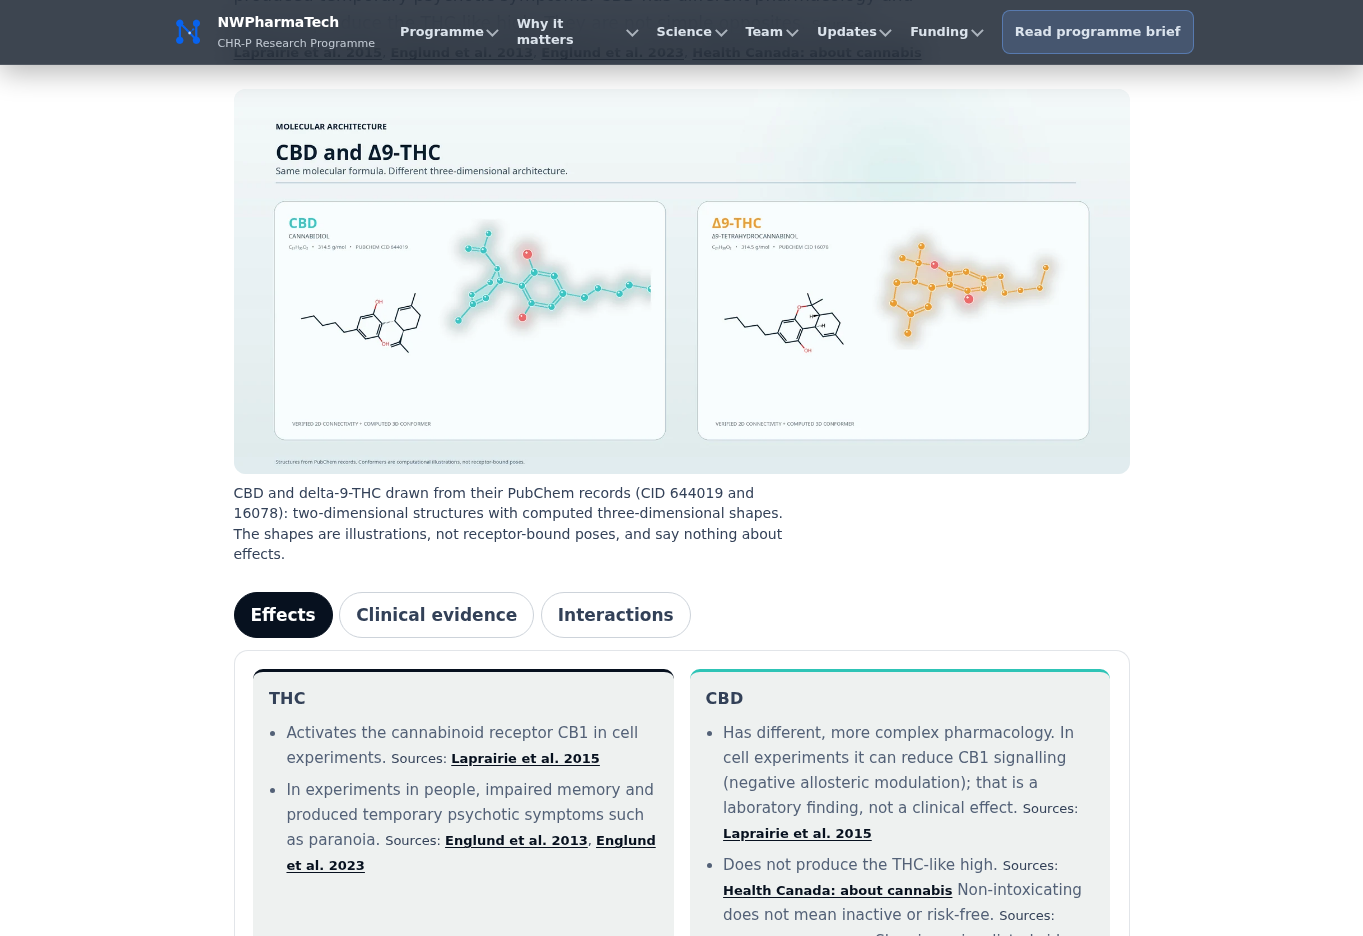
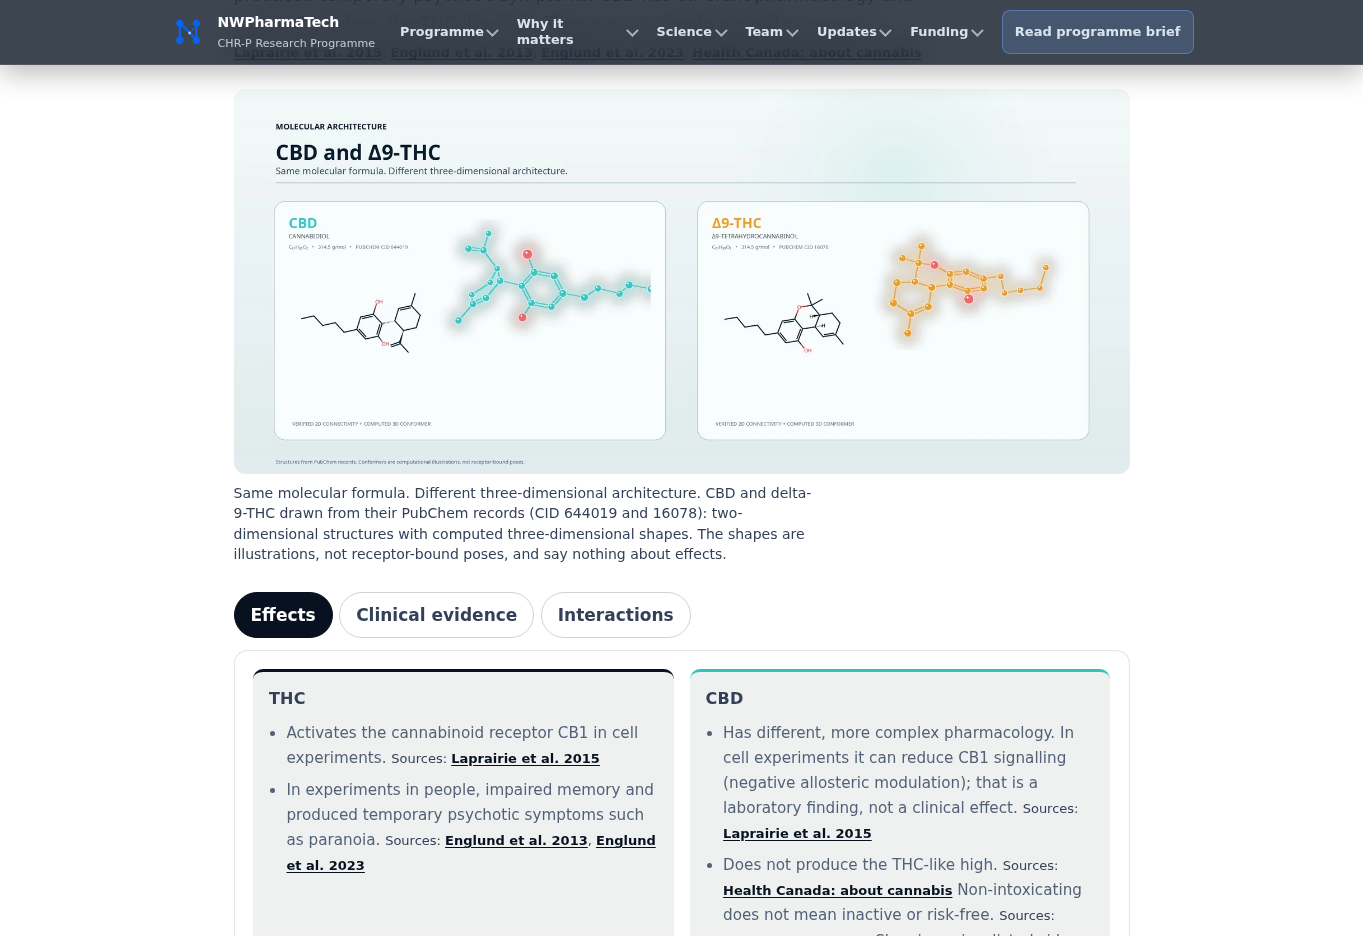
NWPT-049 follow-up: molecular caption carries the image's sentence
"Same molecular formula. Different three-dimensional architecture." now
opens the readable HTML caption on /science/cbd-thc (the embedded text is
small on phones). Names, PubChem IDs and the illustration limit kept;
set in build-science.py. test-visuals: 66 checks pass.

Claude-Session: https://claude.ai/code/session_01TYdFtUNnf73gKgrVG8b6gR

Changed region(s): [[0.1541, 0.4957, 0.5855, 0.6197]]

diff --git a/nwpharmatech-website/release-032/site/science/cbd-thc.html b/nwpharmatech-website/release-032/site/science/cbd-thc.html
@@ -145,7 +145,7 @@
           <h2 id="distinct-title">Two distinct compounds</h2>
           <p>THC and CBD are distinct compounds. In cell experiments THC activates the cannabinoid receptor CB1, and in experiments in people it impaired memory and produced temporary psychotic symptoms. CBD has different pharmacology and does not produce the THC-like high. They are not simple opposites. <span class="sci-cites">Sources: <a class="nwpt-cite" href="../evidence.html#ref-laprairie-2015">Laprairie et al. 2015</a>, <a class="nwpt-cite" href="../evidence.html#ref-englund-2013">Englund et al. 2013</a>, <a class="nwpt-cite" href="../evidence.html#ref-englund-2023">Englund et al. 2023</a>, <a class="nwpt-cite" href="../evidence.html#ref-health-canada-about-cannabis">Health Canada: about cannabis</a></span></p>
         </div>
-        <figure class="sci-figure sci-figure--diagram"><img src="../assets/visuals-049/01-cbd-thc-molecular-architecture-1600w.webp" srcset="../assets/visuals-049/01-cbd-thc-molecular-architecture-640w.webp 640w, ../assets/visuals-049/01-cbd-thc-molecular-architecture-1600w.webp 1600w" sizes="(max-width: 600px) calc(100vw - 2rem), 1040px" width="1600" height="686" alt="Two panels, CBD and delta-9-THC, each showing a two-dimensional structure and a three-dimensional ball-and-stick shape; both are labelled with the formula C21H30O2." style="object-position: 50% 50%;" loading="lazy" decoding="async" /><figcaption>CBD and delta-9-THC drawn from their PubChem records (CID 644019 and 16078): two-dimensional structures with computed three-dimensional shapes. The shapes are illustrations, not receptor-bound poses, and say nothing about effects.</figcaption></figure>
+        <figure class="sci-figure sci-figure--diagram"><img src="../assets/visuals-049/01-cbd-thc-molecular-architecture-1600w.webp" srcset="../assets/visuals-049/01-cbd-thc-molecular-architecture-640w.webp 640w, ../assets/visuals-049/01-cbd-thc-molecular-architecture-1600w.webp 1600w" sizes="(max-width: 600px) calc(100vw - 2rem), 1040px" width="1600" height="686" alt="Two panels, CBD and delta-9-THC, each showing a two-dimensional structure and a three-dimensional ball-and-stick shape; both are labelled with the formula C21H30O2." style="object-position: 50% 50%;" loading="lazy" decoding="async" /><figcaption>Same molecular formula. Different three-dimensional architecture. CBD and delta-9-THC drawn from their PubChem records (CID 644019 and 16078): two-dimensional structures with computed three-dimensional shapes. The shapes are illustrations, not receptor-bound poses, and say nothing about effects.</figcaption></figure>
         <div class="sci-compare" data-sci-tabs="Compare THC and CBD">
           <section class="sci-panel" id="cmp-effects" aria-labelledby="cmp-effects-h"><h3 class="sci-panel__title" id="cmp-effects-h">Effects</h3><div class="sci-pair"><div class="sci-col"><h4 class="sci-col__name">THC</h4><ul><li>Activates the cannabinoid receptor CB1 in cell experiments. <span class="sci-cites">Sources: <a class="nwpt-cite" href="../evidence.html#ref-laprairie-2015">Laprairie et al. 2015</a></span></li><li>In experiments in people, impaired memory and produced temporary psychotic symptoms such as paranoia. <span class="sci-cites">Sources: <a class="nwpt-cite" href="../evidence.html#ref-englund-2013">Englund et al. 2013</a>, <a class="nwpt-cite" href="../evidence.html#ref-englund-2023">Englund et al. 2023</a></span></li></ul></div><div class="sci-col"><h4 class="sci-col__name">CBD</h4><ul><li>Has different, more complex pharmacology. In cell experiments it can reduce CB1 signalling (negative allosteric modulation); that is a laboratory finding, not a clinical effect. <span class="sci-cites">Sources: <a class="nwpt-cite" href="../evidence.html#ref-laprairie-2015">Laprairie et al. 2015</a></span></li><li>Does not produce the THC-like high. <span class="sci-cites">Sources: <a class="nwpt-cite" href="../evidence.html#ref-health-canada-about-cannabis">Health Canada: about cannabis</a></span> Non-intoxicating does not mean inactive or risk-free. <span class="sci-cites">Sources: <a class="nwpt-cite" href="../evidence.html#ref-health-canada-cbd">Health Canada: CBD</a></span> Sleepiness is a listed side effect of one CBD medicine. <span class="sci-cites">Sources: <a class="nwpt-cite" href="../evidence.html#ref-epidyolex-smpc">Epidyolex SmPC</a></span></li></ul></div></div></section><section class="sci-panel" id="cmp-clinical" aria-labelledby="cmp-clinical-h"><h3 class="sci-panel__title" id="cmp-clinical-h">Clinical evidence</h3><div class="sci-pair"><div class="sci-col"><h4 class="sci-col__name">THC</h4><ul><li>In experimental settings, THC can produce temporary psychotic symptoms. <span class="sci-cites">Sources: <a class="nwpt-cite" href="../evidence.html#ref-englund-2013">Englund et al. 2013</a></span></li><li>Observational research links daily use, and especially daily use of high-potency cannabis, with higher odds of psychotic disorder. This is an association, not a prediction for any individual. <span class="sci-cites">Sources: <a class="nwpt-cite" href="../evidence.html#ref-diforti-2019">Di Forti et al. 2019</a></span></li><li>THC-containing medicines exist for specified uses, for example a THC and CBD spray for MS-related spasticity. <span class="sci-cites">Sources: <a class="nwpt-cite" href="../evidence.html#ref-sativex-smpc">Sativex SmPC</a></span></li></ul></div><div class="sci-col"><h4 class="sci-col__name">CBD</h4><ul><li>Licensed in the UK as one specific medicine for seizures in specified epilepsy conditions. <span class="sci-cites">Sources: <a class="nwpt-cite" href="../evidence.html#ref-epidyolex-smpc">Epidyolex SmPC</a></span></li><li>In psychiatry, small trials of other CBD preparations have produced mixed results. <span class="sci-cites">Sources: <a class="nwpt-cite" href="../evidence.html#ref-mcguire-2018">McGuire et al. 2018</a>, <a class="nwpt-cite" href="../evidence.html#ref-boggs-2018">Boggs et al. 2018</a></span></li><li>Not established as a treatment for people at clinical high risk. NWPT-SM32300 is investigational.</li></ul></div></div></section><section class="sci-panel" id="cmp-interactions" aria-labelledby="cmp-interactions-h"><h3 class="sci-panel__title" id="cmp-interactions-h">Interactions</h3><div class="sci-pair"><div class="sci-col"><h4 class="sci-col__name">THC</h4><ul><li>Combining THC with CBD does not reliably reduce THC’s effects. <span class="sci-cites">Sources: <a class="nwpt-cite" href="../evidence.html#ref-englund-2023">Englund et al. 2023</a>, <a class="nwpt-cite" href="../evidence.html#ref-chesney-2025">Chesney et al. 2025</a></span></li><li>A high oral CBD dose given with THC increased THC exposure and impairment in one study. <span class="sci-cites">Sources: <a class="nwpt-cite" href="../evidence.html#ref-zamarripa-2023">Zamarripa et al. 2023</a></span></li></ul></div><div class="sci-col"><h4 class="sci-col__name">CBD</h4><ul><li>CBD can change how some other medicines are handled; the UK product information for one CBD medicine describes an interaction with clobazam. <span class="sci-cites">Sources: <a class="nwpt-cite" href="../evidence.html#ref-epidyolex-smpc">Epidyolex SmPC</a></span></li><li>Effects depend on dose, timing, route, formulation and the people studied.</li></ul></div></div></section>
         </div>

diff --git a/nwpharmatech-website/tools/build-science.py b/nwpharmatech-website/tools/build-science.py
@@ -199,7 +199,7 @@ VIS = {
         cap="Conceptual illustration of signalling between cells. It is not a molecular model and does not show where any compound binds or what it does."),
     "molecules": dict(file="01-cbd-thc-molecular-architecture", focal="50% 50%", kind="diagram",
         alt="Two panels, CBD and delta-9-THC, each showing a two-dimensional structure and a three-dimensional ball-and-stick shape; both are labelled with the formula C21H30O2.",
-        cap="CBD and delta-9-THC drawn from their PubChem records (CID 644019 and 16078): two-dimensional structures with computed three-dimensional shapes. The shapes are illustrations, not receptor-bound poses, and say nothing about effects."),
+        cap="Same molecular formula. Different three-dimensional architecture. CBD and delta-9-THC drawn from their PubChem records (CID 644019 and 16078): two-dimensional structures with computed three-dimensional shapes. The shapes are illustrations, not receptor-bound poses, and say nothing about effects."),
 }
 
 

diff --git a/nwpharmatech-website/release-032/records/VISUAL-INTEGRATION-NWPT-049.md b/nwpharmatech-website/release-032/records/VISUAL-INTEGRATION-NWPT-049.md
@@ -38,7 +38,7 @@ New images go only into slots that had no imagery (the Science subpages). No exi
 |---|---|---|---|---|
 | `general-17` Uncertainty Map | `/science/psychiatry`, page hero below the Science sub-navigation | LCP: `loading="eager"`, `fetchpriority="high"` | 3:2 crop on the focal side (`object-position: 78% 50%`) | “Conceptual illustration of open research questions. It is not an anatomical model and does not depict a treatment effect.” |
 | `daylight-07` Synaptic Cleft Observatory | `/science/cannabinoids`, “A signalling system already present in the body” (above the Health Canada endocannabinoid text) | lazy | 3:2 crop on the focal side (`80% 50%`) | “Conceptual illustration of signalling between cells. It is not a molecular model and does not show where any compound binds or what it does.” |
-| `molecular-01` CBD and Δ9-THC Molecular Architecture | `/science/cbd-thc`, “Two distinct compounds”, between the introduction and the comparison tabs | lazy | Full diagram, uncropped (`object-fit: contain`) | “CBD and delta-9-THC drawn from their PubChem records (CID 644019 and 16078): two-dimensional structures with computed three-dimensional shapes. The shapes are illustrations, not receptor-bound poses, and say nothing about effects.” |
+| `molecular-01` CBD and Δ9-THC Molecular Architecture | `/science/cbd-thc`, “Two distinct compounds”, between the introduction and the comparison tabs | lazy | Full diagram, uncropped (`object-fit: contain`) | “Same molecular formula. Different three-dimensional architecture. CBD and delta-9-THC drawn from their PubChem records (CID 644019 and 16078): two-dimensional structures with computed three-dimensional shapes. The shapes are illustrations, not receptor-bound poses, and say nothing about effects.” |
 
 - All three use `srcset` with the 640w and 1600w files, have intrinsic `width`/`height` of 1600 × 686 and `decoding="async"`.
 - Each has descriptive alt text adapted from the manifest. The labels in the molecular image (C21H30O2, 314.5 g/mol, PubChem CID 644019 and 16078) were read from the image and match the public PubChem identities for CBD and Δ9-THC.
@@ -107,3 +107,11 @@ New images go only into slots that had no imagery (the Science subpages). No exi
    - on a phone, the psychiatry and cannabinoids images crop to the right-hand subject, and the molecular diagram is uncropped;
    - no other page looks different.
 3. Production publication follows Filipp's review of the preview.
+
+## Follow-up after hosted review (Filipp, 27 Sep 2026)
+
+- **Decision:** all three illustrations and layouts kept. The Evidence library and Community replacements stay unimplemented, and the homepage video stays.
+- **One targeted change:** the image's own sentence “Same molecular formula. Different three-dimensional architecture.” now opens the readable HTML caption on `/science/cbd-thc`, because the text inside the image is small on phones. The compound names, PubChem IDs and illustration limit are unchanged. The sentence is set in `tools/build-science.py`, so regeneration keeps it.
+- **Unchanged:** no image, layout or other page changed.
+- **Checks:** `tools/test-visuals.mjs` now also checks this caption.
+
